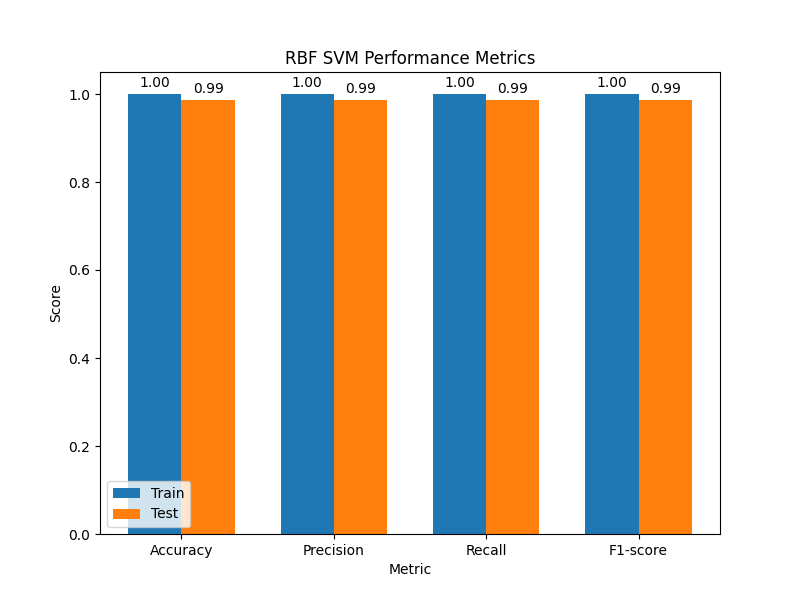
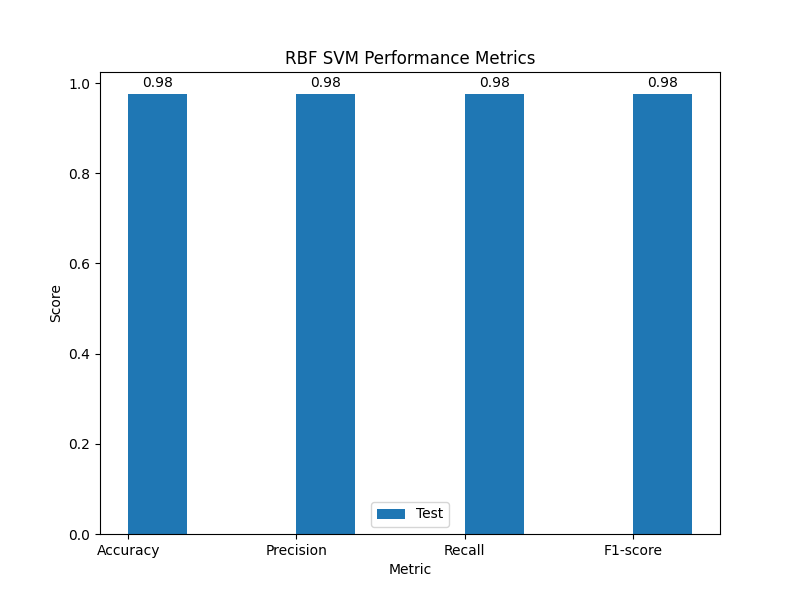
reached generalization

diff --git a/model.py b/model.py
@@ -9,12 +9,12 @@ import matplotlib.pyplot as plt
 import seaborn as sns
 
 
-def plot_metrics(train_metrics, test_metrics, metric_names, model_name, plot_name):
+def plot_metrics(test_metrics, metric_names, model_name, plot_name):
     x = np.arange(len(metric_names))
     width = 0.35
 
     fig, ax = plt.subplots(figsize=(8, 6))
-    bars1 = ax.bar(x - width/2, train_metrics, width, label='Train')
+
     bars2 = ax.bar(x + width/2, test_metrics, width, label='Test')
 
     ax.set_xlabel('Metric')
@@ -24,7 +24,7 @@ def plot_metrics(train_metrics, test_metrics, metric_names, model_name, plot_nam
     ax.set_xticklabels(metric_names)
     ax.legend()
 
-    for bar in bars1 + bars2:
+    for bar in bars2:
         height = bar.get_height()
         ax.annotate(f'{height:.2f}',
                     xy=(bar.get_x() + bar.get_width() / 2, height),
@@ -55,18 +55,13 @@ def linear_SVM():
     y_hat_train = linear_classifier.predict(X_train)
     y_hat_test = linear_classifier.predict(X_test)
 
-    train_accuracy = metrics.accuracy_score(y_train, y_hat_train)
     test_accuracy = metrics.accuracy_score(y_test, y_hat_test)
 
-    train_precision = metrics.precision_score(
-        y_train, y_hat_train, average='macro')
     test_precision = metrics.precision_score(
         y_test, y_hat_test, average='macro')
 
-    train_recall = metrics.recall_score(y_train, y_hat_train, average='macro')
     test_recall = metrics.recall_score(y_test, y_hat_test, average='macro')
 
-    train_f1 = metrics.f1_score(y_train, y_hat_train, average='macro')
     test_f1 = metrics.f1_score(y_test, y_hat_test, average='macro')
 
     print("Classification Report:")
@@ -76,11 +71,10 @@ def linear_SVM():
     plot_confusion_matrix(y_test, y_hat_test, label_decoder.classes_,
                           plot_name="linear_svm_confusion_matrix", model_name="Linear SVM")
 
-    train_metrics = [train_accuracy, train_precision, train_recall, train_f1]
     test_metrics = [test_accuracy, test_precision, test_recall, test_f1]
     metric_names = ["Accuracy", "Precision", "Recall", "F1-score"]
 
-    plot_metrics(train_metrics, test_metrics, metric_names,
+    plot_metrics(test_metrics, metric_names,
                  plot_name="linear_svm_metrics", model_name="Linear SVM")
 
     # X_test_file = get_feature_vector_for_file(
@@ -104,21 +98,15 @@ def RBF_SVM():
     #     svm_rbf, param_grid, cv=5, scoring='accuracy', verbose=1, n_jobs=-1)
     svm_rbf.fit(X_train, y_train)
 
-    y_hat_train = svm_rbf.predict(X_train)
     y_hat_test = svm_rbf.predict(X_test)
 
-    train_accuracy = metrics.accuracy_score(y_train, y_hat_train)
     test_accuracy = metrics.accuracy_score(y_test, y_hat_test)
 
-    train_precision = metrics.precision_score(
-        y_train, y_hat_train, average='macro')
     test_precision = metrics.precision_score(
         y_test, y_hat_test, average='macro')
 
-    train_recall = metrics.recall_score(y_train, y_hat_train, average='macro')
     test_recall = metrics.recall_score(y_test, y_hat_test, average='macro')
 
-    train_f1 = metrics.f1_score(y_train, y_hat_train, average='macro')
     test_f1 = metrics.f1_score(y_test, y_hat_test, average='macro')
 
     # Print Classification Report
@@ -130,11 +118,11 @@ def RBF_SVM():
                           plot_name="RBF_svm_confusion_matrix", model_name="RBF SVM")
 
     # Plot Accuracy, Precision, Recall, and F1-score
-    train_metrics = [train_accuracy, train_precision, train_recall, train_f1]
+
     test_metrics = [test_accuracy, test_precision, test_recall, test_f1]
     metric_names = ["Accuracy", "Precision", "Recall", "F1-score"]
 
-    plot_metrics(train_metrics, test_metrics, metric_names,
+    plot_metrics(test_metrics, metric_names,
                  plot_name="RBF_svm_metrics", model_name="RBF SVM")
 
     # X_test_file = get_feature_vector_for_file(
@@ -151,22 +139,20 @@ def random_forest_classifier():
     rf_classifier = RandomForestClassifier(n_estimators=100, random_state=42)
     rf_classifier.fit(X_train, y_train)
 
-    y_hat_train = rf_classifier.predict(X_train)
+    # y_hat_train = rf_classifier.predict(X_train)
     y_hat_test = rf_classifier.predict(X_test)
 
     # Compute Metrics
-    train_accuracy = metrics.accuracy_score(y_train, y_hat_train)
+    # train_accuracy = metrics.accuracy_score(y_train, y_hat_train)
     test_accuracy = metrics.accuracy_score(y_test, y_hat_test)
 
-    train_precision = metrics.precision_score(
-        y_train, y_hat_train, average='macro')
     test_precision = metrics.precision_score(
         y_test, y_hat_test, average='macro')
 
-    train_recall = metrics.recall_score(y_train, y_hat_train, average='macro')
+    # train_recall = metrics.recall_score(y_train, y_hat_train, average='macro')
     test_recall = metrics.recall_score(y_test, y_hat_test, average='macro')
 
-    train_f1 = metrics.f1_score(y_train, y_hat_train, average='macro')
+    # train_f1 = metrics.f1_score(y_train, y_hat_train, average='macro')
     test_f1 = metrics.f1_score(y_test, y_hat_test, average='macro')
 
     # Print Classification Report
@@ -177,16 +163,14 @@ def random_forest_classifier():
     plot_confusion_matrix(y_test, y_hat_test, label_decoder.classes_,
                           plot_name="RF_confusion_matrix", model_name="RF")
 
-    # Plot Accuracy, Precision, Recall, and F1-score
-    train_metrics = [train_accuracy, train_precision, train_recall, train_f1]
     test_metrics = [test_accuracy, test_precision, test_recall, test_f1]
     metric_names = ["Accuracy", "Precision", "Recall", "F1-score"]
 
-    plot_metrics(train_metrics, test_metrics, metric_names,
+    plot_metrics(test_metrics, metric_names,
                  plot_name="RF_metrics", model_name="RF")
 
     X_test_file = get_feature_vector_for_file(
-        "data/out_of_ditribution/120bpm_hse_drm_id_001_0018.wav", 0)
+        "data/out_of_ditribution/recording-1-30-2025,-7-22-17-PM.wav", 0)
 
     y_test_file_proba = rf_classifier.predict_proba(np.array([X_test_file]))
 
@@ -201,6 +185,6 @@ if __name__ == '__main__':
 
     # linear_SVM()
 
-    # RBF_SVM()
+    RBF_SVM()
 
-    random_forest_classifier()
+    # random_forest_classifier()

diff --git a/extract_features.py b/extract_features.py
@@ -75,31 +75,35 @@ def extract_features(file_path, bpm):
 
         features = {
             'mfcc_median': np.median(mfcc_normalized, axis=1),
+            'mfcc_mean': np.mean(mfcc_normalized, axis=1),
             'mfcc_var': np.var(mfcc_normalized, axis=1),
             'mfcc_skew': skew(mfcc_normalized, axis=1),
             'zcr_median': np.array([np.median(zcr_normalized)]),
+            'zcr_mean': np.array([np.mean(zcr_normalized)]),
             'zcr_var': np.array([np.var(zcr_normalized)]),
             'spectral_contrast_median': np.median(spectral_contrast_normalized, axis=1),
             'spectral_contrast_var': np.var(spectral_contrast_normalized, axis=1),
             'onset_strength_median': np.array([np.median(onset_strength_normalized)]),
+            'onset_strength_mean': np.array([np.mean(onset_strength_normalized)]),
             'onset_strength_var': np.array([np.var(onset_strength_normalized)]),
             'rms_energy_median': np.array([np.median(rms_energy_normalized)]),
             'rms_energy_var': np.array([np.var(rms_energy_normalized)]),
         }
 
         feature_vector = np.concatenate([
-            features['mfcc_median'],
+            features['mfcc_mean'],
+            # features['mfcc_median'],
             # TODO I think this is what is causing the problem, its adding bias
-            features['mfcc_skew'],
-            features['mfcc_var'],
-            features['onset_strength_median'],
-            features['onset_strength_var'],
+            # features['mfcc_skew'],
+            # features['mfcc_var'],
+            features['onset_strength_mean'],
+            # features['onset_strength_var'],
             # features['rms_energy_median'],
             # features['rms_energy_var'],
             # features['spectral_contrast_median'],
             # features['spectral_contrast_var'],
-            features['zcr_median'],
-            features['zcr_var'],
+            features['zcr_mean'],
+            # features['zcr_var'],
             # [bpm]
         ])
 
